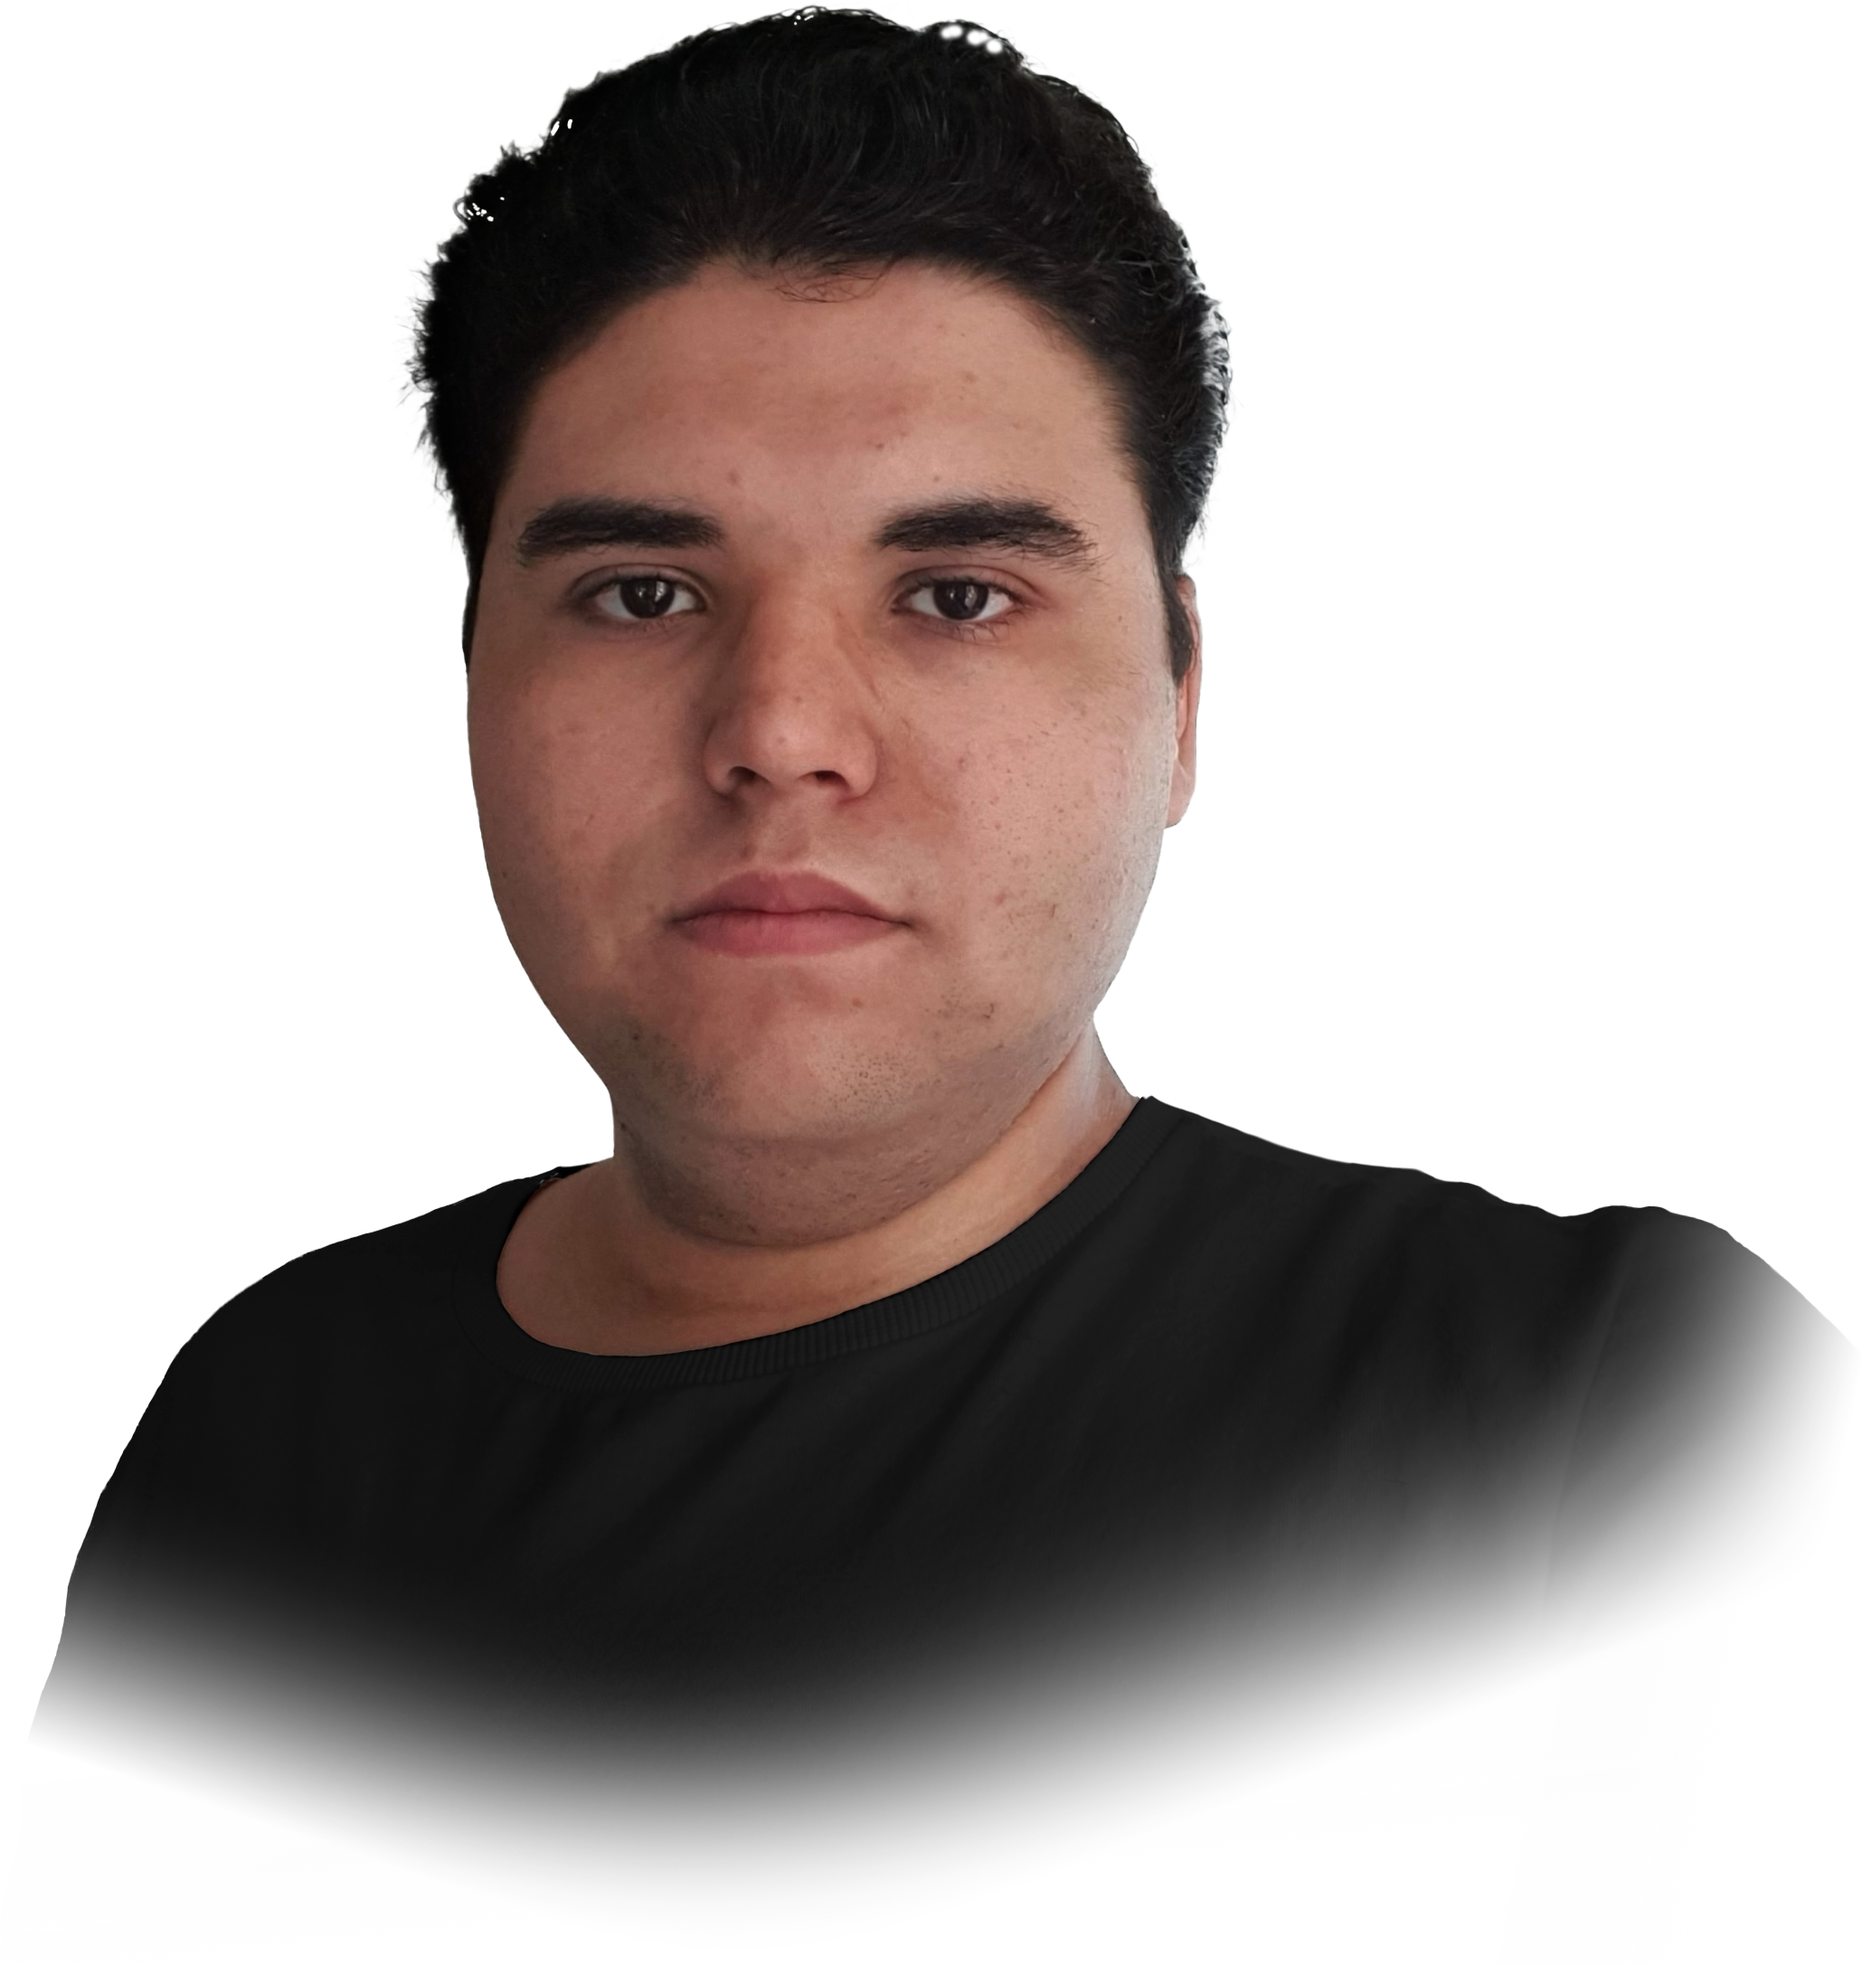
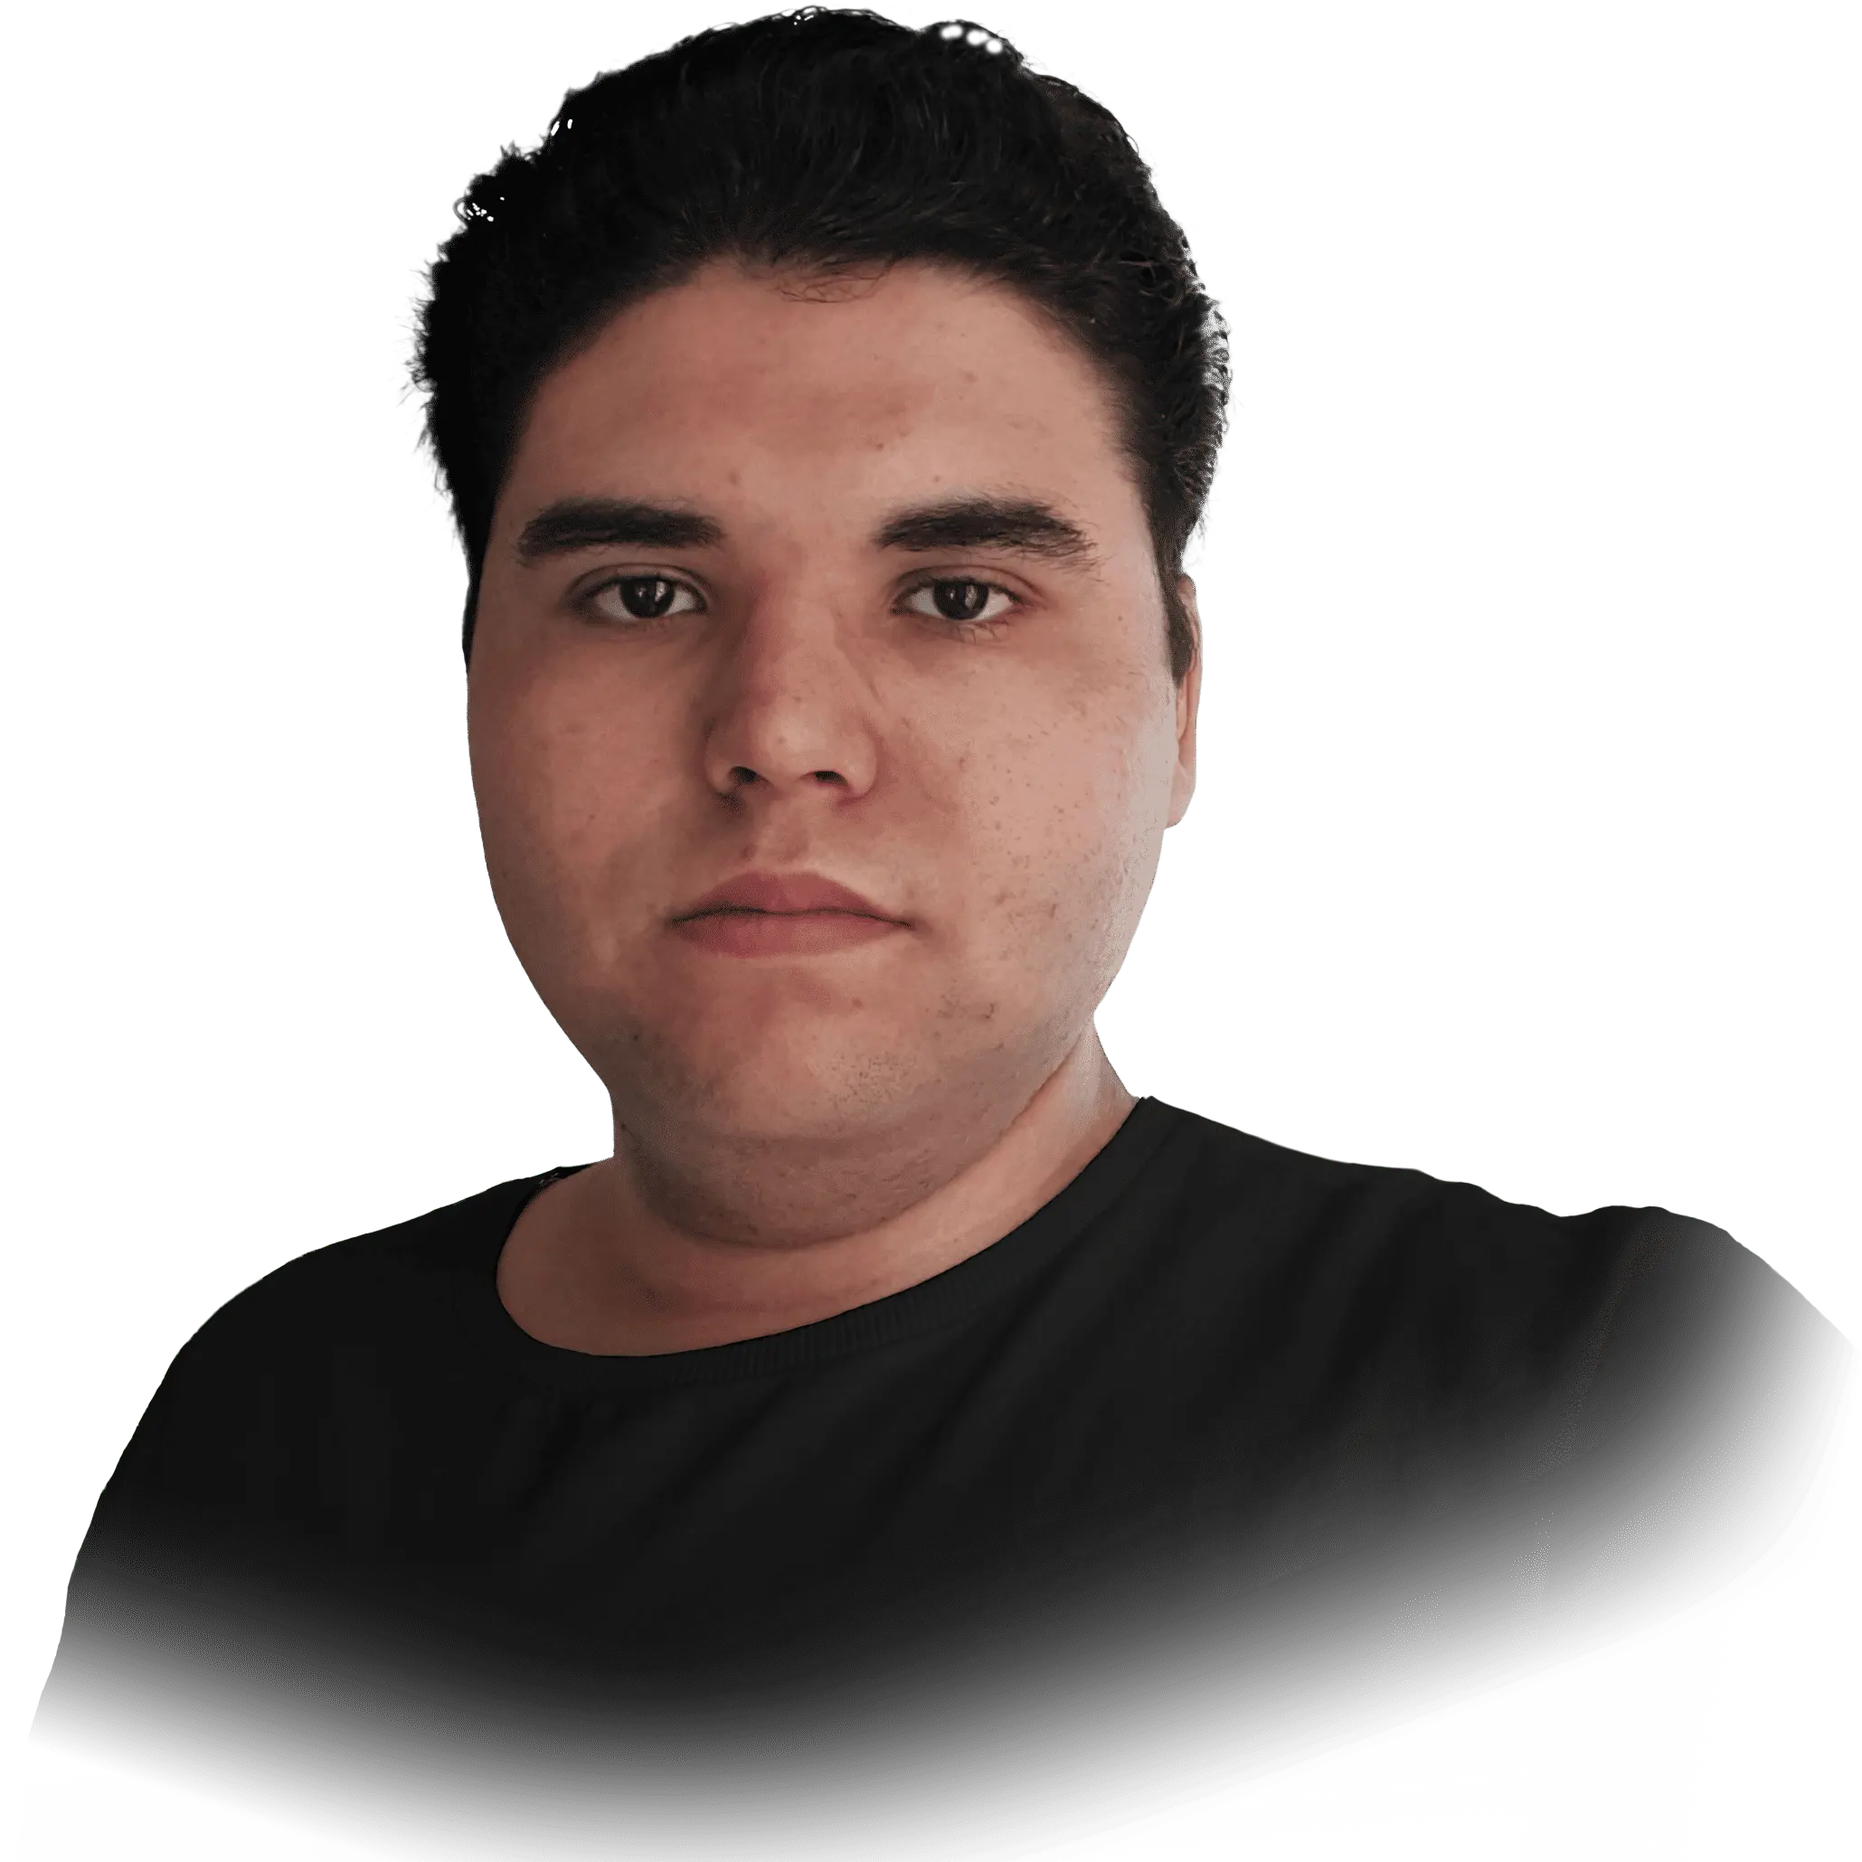
refactor: atualizacao infos

diff --git a/portfolio-website/src/pages/sections/about-me/AboutMe.tsx b/portfolio-website/src/pages/sections/about-me/AboutMe.tsx
@@ -15,27 +15,21 @@ const AboutMe = (prop: { id: string }) => {
 			<div className={`flex flex-column ${styles.description}`}>
 				<FadeInSection direction='up'>
 					<p>
-						Sou estudante de Engenharia de Software na PUC Minas, atualmente residindo em Contagem, MG.
-						Minha paixão pela programação me levou a desenvolver habilidades sólidas em desenvolvimento Full
-						Stack e a cultivar pensamento lógico. Meu objetivo profissional é mergulhar em projetos de
-						desenvolvimento Full Stack/Front End, onde posso continuar aprimorando minhas capacidades e, ao
-						mesmo tempo, fazer uma contribuição valiosa para a equipe e a empresa.
+						Sou Engenheiro de Software formado pela PUC Minas, com experiência em desenvolvimento Full-Stack e forte capacidade de raciocínio lógico. Busco atuar em projetos desafiadores de desenvolvimento, contribuindo com soluções eficientes, código de qualidade e foco em resultados. Meu objetivo é crescer profissionalmente enquanto agrego valor para a empresa, colaborando ativamente com a equipe e participando da construção de produtos robustos e escaláveis.
 					</p>
 				</FadeInSection>
 				<FadeInSection direction='up'>
 					<p>
 						Minha jornada até aqui tem sido repleta de experiências enriquecedoras. Tenho experiência
-						prática com várias tecnologias, incluindo as linguagens Java e JavaScript. Participei do
-						desenvolvimento de projetos Full Stack, utilizando ferramentas como ReactJs, NodeJs, Express,
-						Sequelize, Mongoose, CSS e HTML. Além disso, trabalhei com modelagem de bancos de dados tanto
-						relacionais, usando MySQL e MS SQLServer, quanto não-relacionais, na nuvem, com MongoDB Atlas.
+						prática com várias tecnologias, incluindo as linguagens Java e TypeScript. Participei do
+						desenvolvimento de projetos Full Stack, utilizando ferramentas como ReactJs, NextJs, NestJs e AngularJs.
+						Além disso, trabalhei com modelagem de bancos de dados tanto
+						relacionais, usando PostgreSQL e MS SQLServer, quanto não-relacionais, na nuvem, com MongoDB Atlas.
 					</p>
 				</FadeInSection>
 				<FadeInSection direction='up'>
 					<p>
-						Tenho grandes aspirações para o futuro e desejo expandir meus conhecimentos para o campo das
-						aplicações móveis. Estou ansioso para explorar o desenvolvimento mobile com ReactJs Native e
-						Flutter, a fim de ampliar ainda mais meu conjunto de habilidades.
+						Tenho grandes aspirações para o futuro e busco expandir meus conhecimentos em desenvolvimento de aplicações móveis, além de aprimorar minhas habilidades em aplicações web e segurança de software.
 					</p>
 				</FadeInSection>
 			</div>

diff --git a/portfolio-website/src/pages/sections/presentation/Presentation.tsx b/portfolio-website/src/pages/sections/presentation/Presentation.tsx
@@ -30,9 +30,7 @@ const Presentation = () => {
 					</div>
 
 					<p className={styles.description}>
-						Sou estudante de Engenharia de Software e, nos últimos 3 anos, desenvolvi projetos próprios e
-						para clientes reais para contribuir com conhecimento profissional e pessoal, assim como atingir
-						a satisfação do cliente.
+						Sou Engenheiro de Software e desenvolvi projetos próprios e para clientes reais, sempre com foco em aprimorar minhas habilidades, entregar soluções de qualidade e garantir a satisfação do cliente.
 					</p>
 
 					<a href='#projects'>
